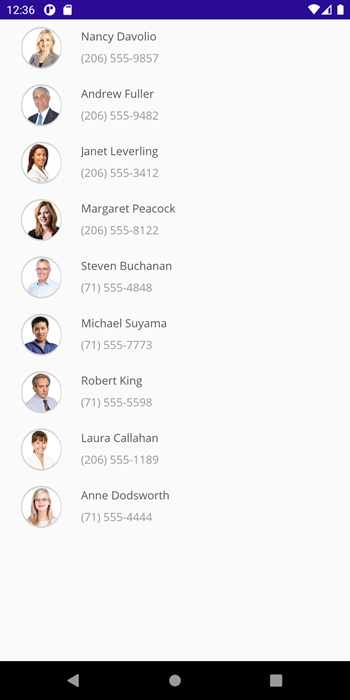
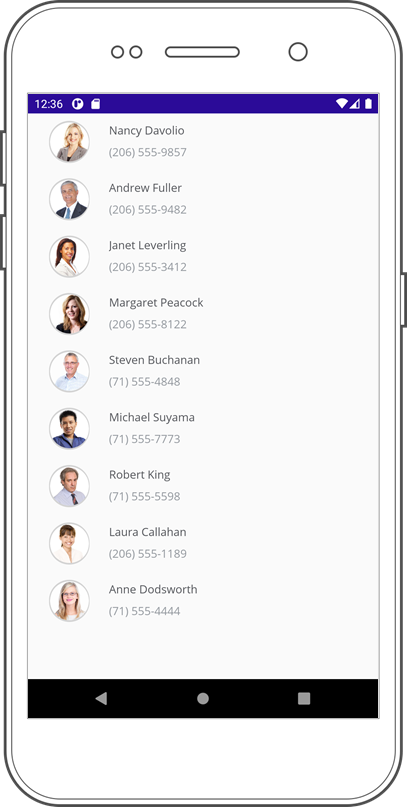
DevExpress Collection View for .NET MAUI Preview 7

Changed region(s): [[0.0, 0.0, 1.0, 1.0]]

diff --git a/CS/CollectionViewExample/MainPage.xaml b/CS/CollectionViewExample/MainPage.xaml
@@ -16,34 +16,33 @@
                         <ColumnDefinition Width="50"/>
                         <ColumnDefinition Width="*"/>
                     </Grid.ColumnDefinitions>
-                    <Frame Grid.Column="0"
-                       HasShadow="False"
-                       BackgroundColor="LightGray"
-                       VerticalOptions="Center"
-                       HorizontalOptions="Center"
-                       CornerRadius="25"
-                       WidthRequest="50"
-                       HeightRequest="50"
-                       Padding="1">
+                    <Grid Margin="0" Padding="0" ColumnSpacing="0" RowSpacing="0">
                         <Frame BackgroundColor="White"
-                           Padding="0"
-                           HeightRequest="48"
-                           WidthRequest="48"
-                           VerticalOptions="Center"
-                           HorizontalOptions="Center"
-                           HasShadow="False"
-                           IsClippedToBounds="True"
-                           CornerRadius="24">
-                            <Image Source="{Binding Photo}">
-                                <Image.VerticalOptions>
-                                    <OnPlatform x:TypeArguments="LayoutOptions">
-                                        <On Platform="Android">FillAndExpand</On>
-                                        <On Platform="iOS">EndAndExpand</On>
-                                    </OnPlatform>
-                                </Image.VerticalOptions>
-                            </Image>
+                                   Padding="0" Margin="0"
+                                   HeightRequest="48"
+                                   WidthRequest="48"
+                                   VerticalOptions="Center"
+                                   HorizontalOptions="Center"
+                                   HasShadow="False"   
+                                   CornerRadius="24">
+                            <Frame.IsClippedToBounds>
+                                <OnPlatform x:TypeArguments="x:Boolean">
+                                    <On Platform="iOS">true</On>
+                                    <On Platform="Android">false</On>
+                                </OnPlatform>
+                            </Frame.IsClippedToBounds>
+                            <Image Source="{Binding Photo}"/>
                         </Frame>
-                    </Frame>
+                        <Ellipse Margin="0"
+                                 Fill="Transparent"
+                                 Stroke="LightGray" 
+                                 StrokeThickness="1"
+                                 HeightRequest="50"
+                                 WidthRequest="50"
+                                 VerticalOptions="Center"
+                                 HorizontalOptions="Center">
+                        </Ellipse>
+                    </Grid>
                     <StackLayout Grid.Column="1"
                              Padding="18,1,18,7"
                              Orientation="Vertical">

diff --git a/Readme.md b/Readme.md
@@ -20,11 +20,9 @@ This repository contains an application that demonstrates the capabilities of th
 - Multiple Item Selection
 - Themes
 
-![Collection View](Images/collection-view-class.png)
-
 ## Prerequisites
 
-1. Install Visual Studio 2022 Preview and .NET 6 Preview 6. See the following topic on docs.microsoft.com for more information: [.NET MAUI Installation](https://docs.microsoft.com/en-gb/dotnet/maui/get-started/installation).
+1. Install Visual Studio 2022 and the latest .NET MAUI version. See the following topic on docs.microsoft.com for more information: [.NET MAUI Installation](https://docs.microsoft.com/en-gb/dotnet/maui/get-started/installation).
 1. Register the following NuGet feed in Visual Studio: **https://nuget.devexpress.com/free/api**.
     > If you are an active [DevExpress Universal](https://www.devexpress.com/subscriptions/universal.xml) customer, DevExpress Controls for .NET MAUI are available in your [personal NuGet feed](https://nuget.devexpress.com/).
 
@@ -32,7 +30,7 @@ This repository contains an application that demonstrates the capabilities of th
 
 An example in this repository allows you to get started with the Collection View component and explore its basic functionality. It demonstrates how to bind the view to a data source, apply an item template, sort, and group data items.
 
-![Collection View](Images/step-4.png)
+![Collection View](Images/step-4.png) ![Collection View](Images/step-4-ios.png)
 
 ## How to Create This Application
 
@@ -40,7 +38,7 @@ The step-by-step instructions below describe how to create an application simila
 
 ### Create a New Project
 
-1. In Visual Studio 2022 Preview, create a new .NET MAUI project. Name it *CollectionViewExample*.
+1. In Visual Studio 2022, create a new .NET MAUI project. Name it *CollectionViewExample*.
     > If the wizard does not propose a template for .NET MAUI projects, you can call the following command in a CLI to create a new .NET MAUI project:
     > ```
     > dotnet new maui -n CollectionViewExample
@@ -166,15 +164,9 @@ Do the following in the *MainPage.xaml* file:
     <ContentPage.BindingContext>
         <local:ViewModel/>
     </ContentPage.BindingContext>
-    <dxcv:DXCollectionView ItemsSource="{Binding Data}"
-                           DisplayMember="Name"
-                           DisplayFormat="Contact: {0}"/>
+    <dxcv:DXCollectionView ItemsSource="{Binding Data}"/>
 </ContentPage>
 ```
-
-Run the application. You can now see a Collection View on the start screen. The view displays a list of items from the bound data source.
-
-![Collection View - Data Source](Images/step-1.png)
 
 ### Create an Item Template
 
@@ -193,34 +185,33 @@ The [DXCollectionView](https://docs.devexpress.com/MAUI/DevExpress.Maui.Collecti
                         <ColumnDefinition Width="50"/>
                         <ColumnDefinition Width="*"/>
                     </Grid.ColumnDefinitions>
-                    <Frame Grid.Column="0"
-                       HasShadow="False"
-                       BackgroundColor="LightGray"
-                       VerticalOptions="Center"
-                       HorizontalOptions="Center"
-                       CornerRadius="25"
-                       WidthRequest="50"
-                       HeightRequest="50"
-                       Padding="1">
+                    <Grid Margin="0" Padding="0" ColumnSpacing="0" RowSpacing="0">
                         <Frame BackgroundColor="White"
-                           Padding="0"
-                           HeightRequest="48"
-                           WidthRequest="48"
-                           VerticalOptions="Center"
-                           HorizontalOptions="Center"
-                           HasShadow="False"
-                           IsClippedToBounds="True"
-                           CornerRadius="24">
-                            <Image Source="{Binding Photo}">
-                                <Image.VerticalOptions>
-                                    <OnPlatform x:TypeArguments="LayoutOptions">
-                                        <On Platform="Android">FillAndExpand</On>
-                                        <On Platform="iOS">EndAndExpand</On>
-                                    </OnPlatform>
-                                </Image.VerticalOptions>
-                            </Image>
+                                   Padding="0" Margin="0"
+                                   HeightRequest="48"
+                                   WidthRequest="48"
+                                   VerticalOptions="Center"
+                                   HorizontalOptions="Center"
+                                   HasShadow="False"   
+                                   CornerRadius="24">
+                            <Frame.IsClippedToBounds>
+                                <OnPlatform x:TypeArguments="x:Boolean">
+                                    <On Platform="iOS">true</On>
+                                    <On Platform="Android">false</On>
+                                </OnPlatform>
+                            </Frame.IsClippedToBounds>
+                            <Image Source="{Binding Photo}"/>
                         </Frame>
-                    </Frame>
+                        <Ellipse Margin="0"
+                                 Fill="Transparent"
+                                 Stroke="LightGray" 
+                                 StrokeThickness="1"
+                                 HeightRequest="50"
+                                 WidthRequest="50"
+                                 VerticalOptions="Center"
+                                 HorizontalOptions="Center">
+                        </Ellipse>
+                    </Grid>
                     <StackLayout Grid.Column="1"
                              Padding="18,1,18,7"
                              Orientation="Vertical">
@@ -247,7 +238,7 @@ Do the following to add contact photos to the solution:
 
 Run the application. The Collection View now displays a photo, name, and phone number for each contact.
 
-![Collection View - Item Template](Images/step-2.png)
+![Collection View - Item Template](Images/step-2.png) ![Collection View - Item Template](Images/step-2-ios.png)
 
 ### Sort Data Items
 
@@ -269,7 +260,7 @@ Make the following changes in the *MainPage.xaml* file to sort data items:
 
 Run the application. Contacts are now sorted by first name in descending order.
 
-![Collection View - Sort Data Items](Images/step-3.png)
+![Collection View - Sort Data Items](Images/step-3.png) ![Collection View - Sort Data Items](Images/step-3-ios.png)
 
 You can also sort list items by multiple data fields. To do this, create a [SortDescription](https://docs.devexpress.com/MAUI/DevExpress.Maui.CollectionView.SortDescription) object for each field that should be sorted. The order of these objects in the [DXCollectionView.SortDescriptions](https://docs.devexpress.com/MAUI/DevExpress.Maui.CollectionView.DXCollectionView.SortDescriptions) collection defines the sort order in the view.
 
@@ -307,4 +298,8 @@ Make the following changes in the *MainPage.xaml* file to group data items:
 
 Run the application. Contacts whose first name begins with the same letter are now arranged into groups. Each group is identified by a header. Users can tap group headers to expand or collapse groups.
 
-![Collection View - Group Data Items](Images/step-4.png)
+![Collection View - Group Data Items](Images/step-4.png) ![Collection View - Group Data Items](Images/step-4-ios.png)
+
+## Known Issues
+
+* [Frame is not rendered if the Frame.IsClippedToBounds property is set to true](https://github.com/dotnet/maui/issues/2135)
